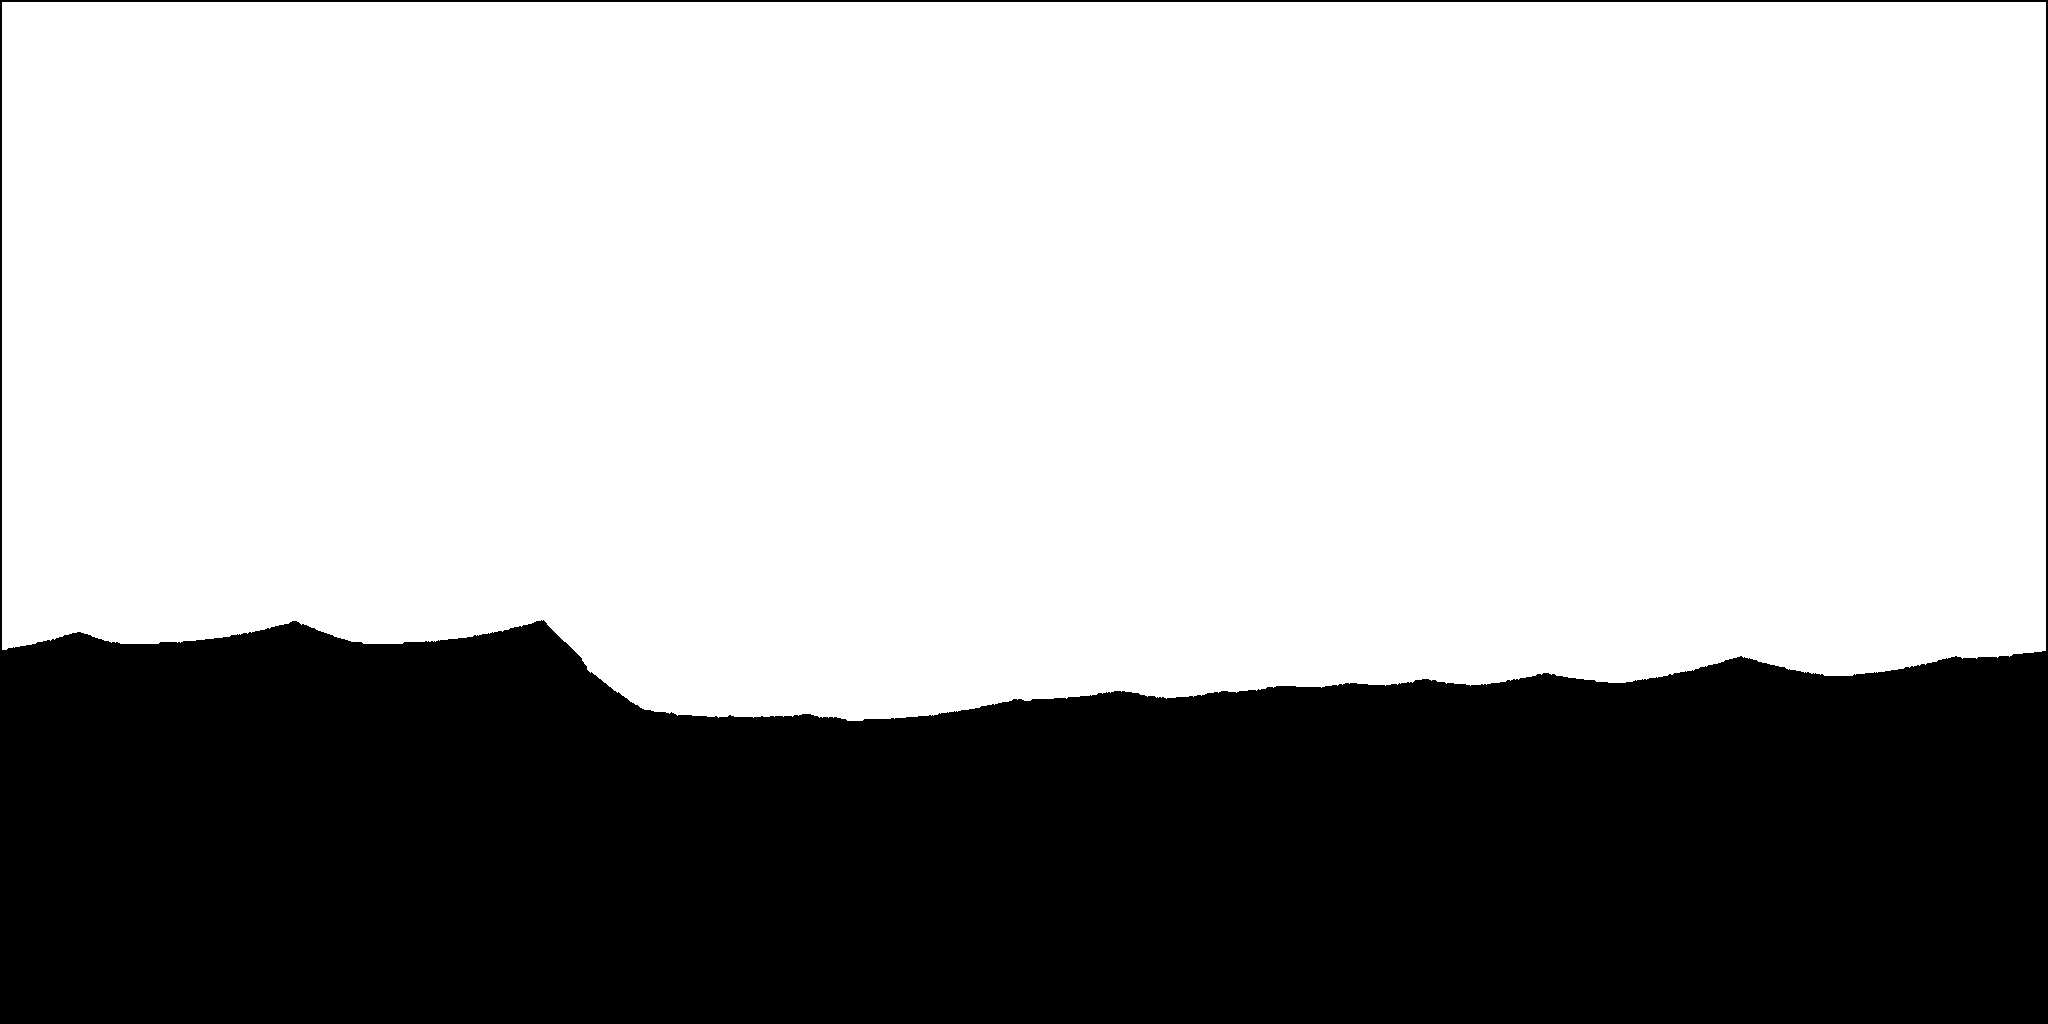
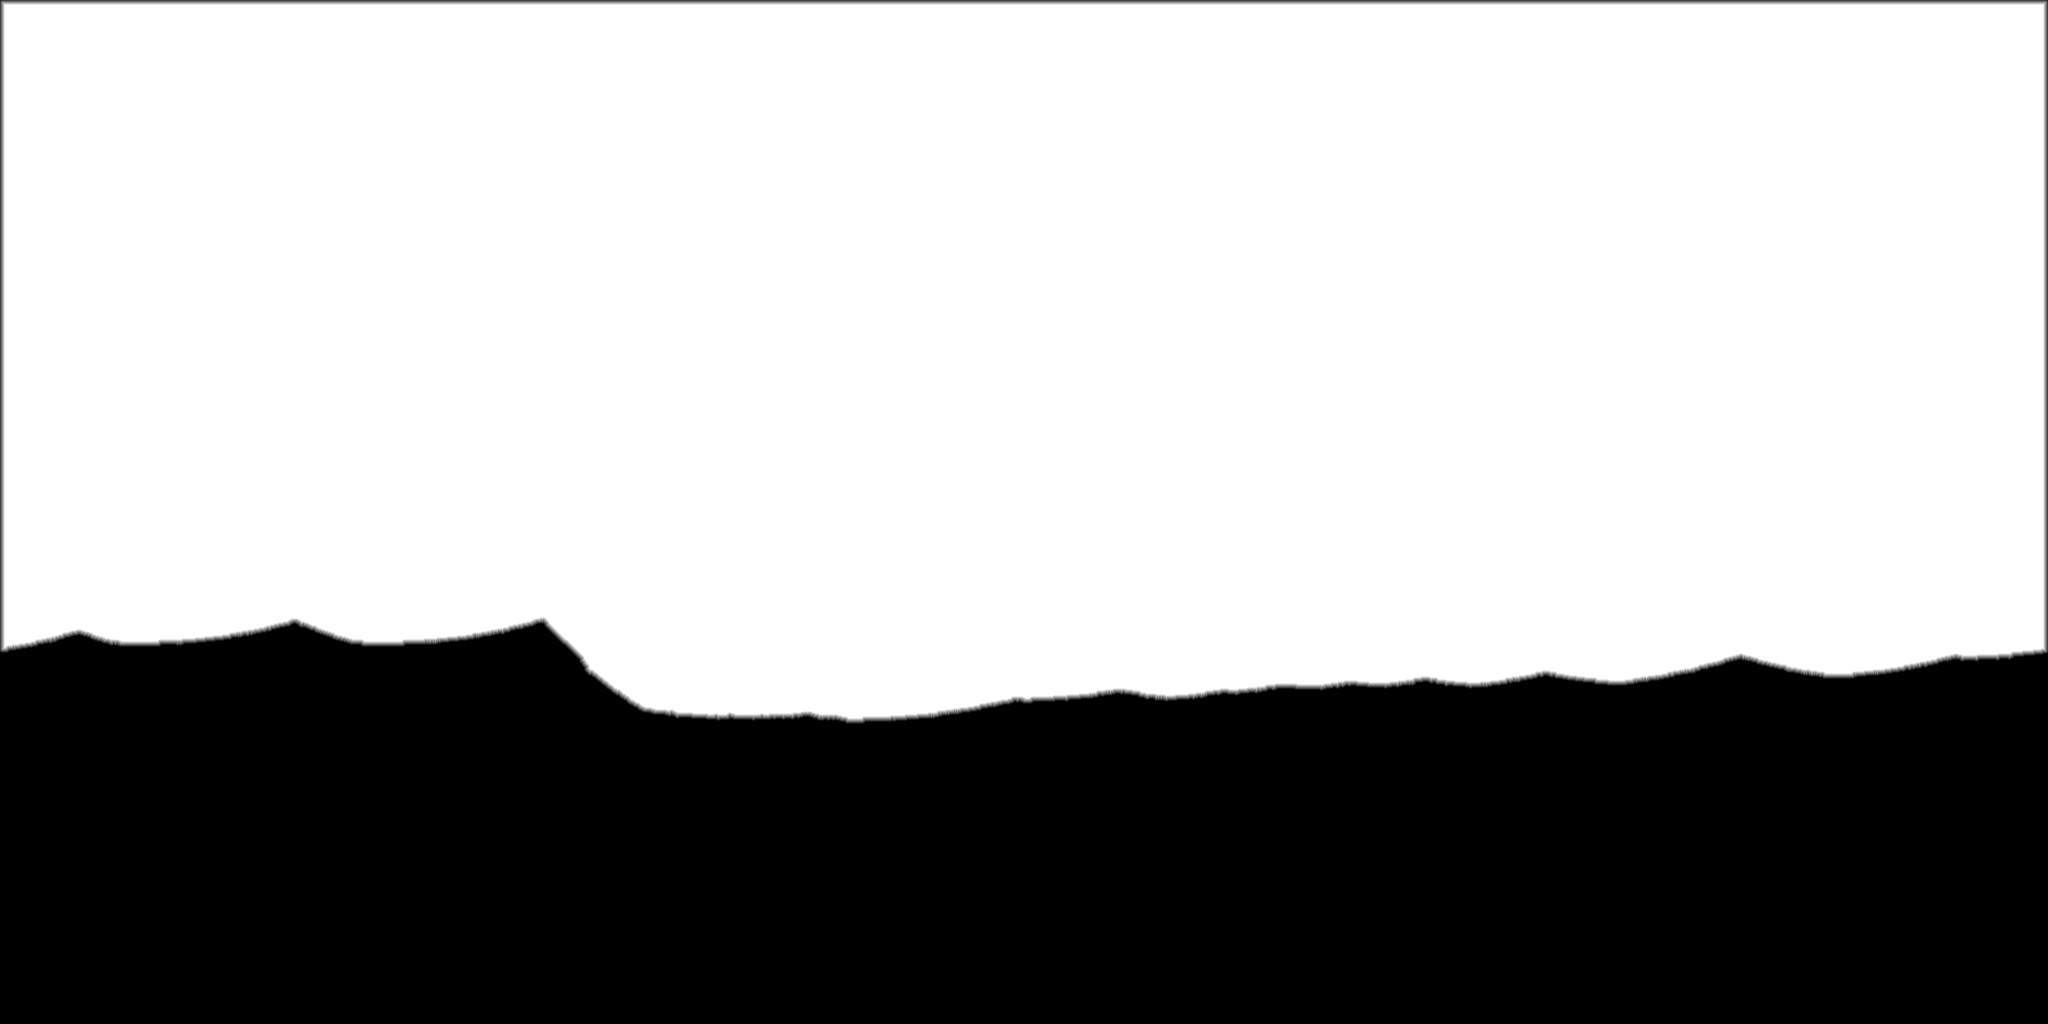
AST-381-03 iteration 9: data masks as clamped signed distance (W=3 px) — bilinear staircase of the binary mask drew the beaded boundary line on Triton/Charon; hand-over 2 px inside → boundary; pdiag no-graticule diagnosis views

diff --git a/src/render/planetMaterial.ts b/src/render/planetMaterial.ts
@@ -221,7 +221,9 @@ export function makeSurfaceMaterial(def: BodyDef, kind: SurfaceKind, maps: { col
           // and painted the reconstruction colour there, giving the dotted lines inside the observed area (ast3 c024879).
           // The mask is authoritative; m0 only covers the instant the mask is still its 1×1 streaming placeholder.
           const maskPh = step(float(textureSize(texture(maps.mask), int(0)).x), float(1.5));
-          noData = max(smoothstep(0.995, 0.85, mm), m0.mul(maskPh));
+          // iteration 9: the mask is a clamped signed distance (0.5 = boundary, 1 = ≥ 3 px inside) — the hand-over runs from
+          // 2 px inside the data (m = 5/6) to the boundary, along a smooth sub-texel contour (no texel staircase / beads)
+          noData = max(smoothstep(0.833, 0.5, mm), m0.mul(maskPh));
         }
         if (maps.recon) {
           // v3.8.1 AST-381-03 (owner review REV2-02): guide field — R = smooth reconstruction weight (0 on every observed

diff --git a/tools/ingest/partial_recon.py b/tools/ingest/partial_recon.py
@@ -117,6 +117,18 @@ for name, thr in BODIES.items():
             filled = small[lab]; valid = valid | filled
             stats[name]['specksFilled' + suf] = int(small.sum()); stats[name]['speckPixels' + suf] = int(filled.sum())
         m = ndimage.binary_erosion(valid, iterations=rim_px)
-        Image.fromarray((m * 255).astype(np.uint8)).save(os.path.join(ROOT, f'public/assets/tex/{name}_mask{suf}.jpg'), quality=98)
+        # iteration 9 (ast3 c25234d, diagnosis view pdiag-*-nogrid): a BINARY mask is a pixel staircase; bilinear filtering
+        # of it, thresholded by the hand-over ramp, gave a scalloped contour with the base map's texel period — seen as a
+        # beaded light/dark line along the Triton and Charon boundaries wherever the camera magnifies the 2k map. The mask
+        # now stores a clamped SIGNED DISTANCE to the (eroded) boundary, m = 0.5 + d / (2·W), W = 3 px: bilinear
+        # interpolation of a distance field gives a smooth contour at sub-texel precision. m ≥ 5/6 ⇔ ≥ 2 px inside the data.
+        Wsdf = 3.0
+        t = np.concatenate([m, m, m], axis=1)
+        din = ndimage.distance_transform_edt(t)[:, m.shape[1]:2 * m.shape[1]]
+        dout = ndimage.distance_transform_edt(~t)[:, m.shape[1]:2 * m.shape[1]]
+        sdf = np.where(m, din - 0.5, -(dout - 0.5))
+        mf = np.clip(0.5 + sdf / (2 * Wsdf), 0, 1)
+        stats[name]['maskEncoding'] = f'clamped signed distance, W = {Wsdf:g} px (0.5 = boundary)'
+        Image.fromarray((mf * 255 + 0.5).astype(np.uint8)).save(os.path.join(ROOT, f'public/assets/tex/{name}_mask{suf}.jpg'), quality=98)
         stats[name]['mask' + suf] = list(g.shape)
 json.dump(stats, open(os.path.join(ROOT, 'docs/assets/provenance/partial-recon-v381.json'), 'w'), indent=1)
